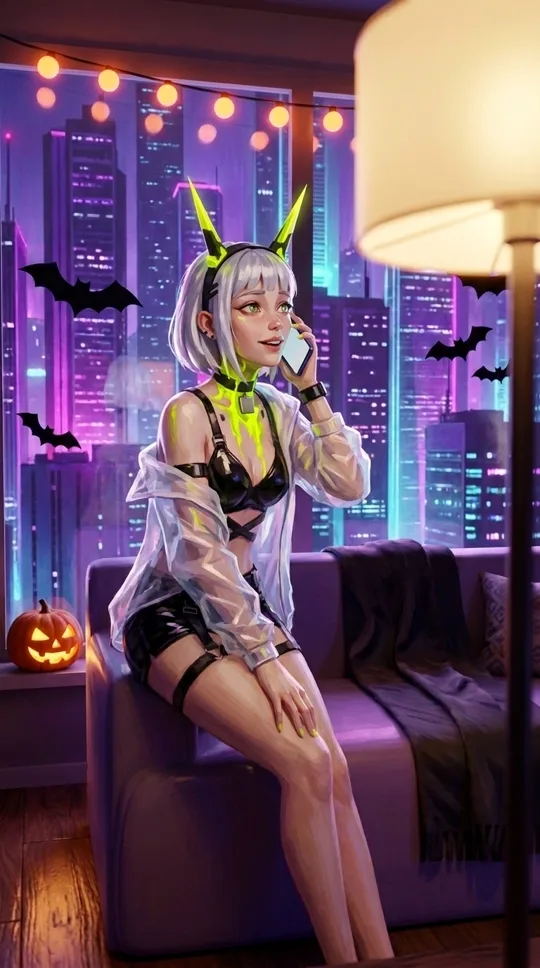
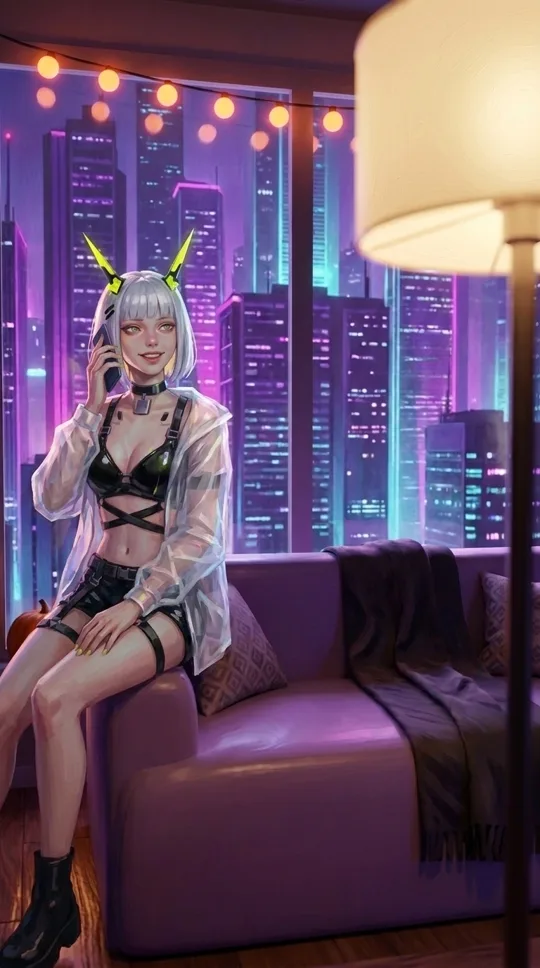
xsino: Halloween Party review - S02/S03/S10 rerolled to the master's horn length

diff --git a/xsino/halloween-party/index.html b/xsino/halloween-party/index.html
@@ -46,7 +46,7 @@
   <p class="muted">Remake of Higgsfield Soul's Halloween short for the XSINO flash event (31 Oct – 1 Nov) · 9:16 · 47.5 s · Spanish speech, English subs</p>
   <div class="status">
     <p><b>25 Oct · previz v1 approved.</b> The anime keyframes and set plates are below, made on Flow (Nano Banana Pro) from the approved blocking. Each shot shows the block keyframe next to its anime keyframe.</p>
-    <p><b>26 Oct:</b> Nyx's horns run too long in S2, S3, S10, S12 and S13; rerolls to the master's length (about 0.6x her head height) are built but paused, because Flow flagged "unusual activity" on the account.</p>
+    <p><b>26 Oct:</b> Nyx's horns were too long. S2, S3 and S10 are rerolled to the master's length (about 0.6x her head height). S11, S12 and S13 are queued: the batch stopped at S11 on a browser-connection timeout before anything was sent.</p>
     <p><b>Held:</b> S1, S8, S9, S14, S15, the five shots with Fortuna. Her old master was off-canon; the rebuilt options are below for your pick. <b>Music:</b> Suno is still waiting on the CAPTCHA in the :9228 window. No video has been generated.</p>
   </div>
 
@@ -72,15 +72,15 @@
 
   <h2>Keyframes, shot by shot (block → anime)</h2>
   <div class="shot"><div class="pics"><div><img src="kf/S01_f70.webp" alt="S1 block"><div class="cap">block</div></div><div><div class="ph">held: Fortuna</div><div class="cap">anime</div></div></div><div><span class="sid">S1 · 0–5 s · corridor</span><br>Fortuna walks up to Vega, who flicks a holo invite off her wrist.<div class="es">VEGA: "Esta noche: Halloween en XSINO." <span class="en">Tonight: Halloween at XSINO.</span><br>FORTUNA: "¡Qué chilero, voy!" <span class="en">So cool, I'm in!</span></div></div></div>
-  <div class="shot"><div class="pics"><div><img src="kf/S02_f150.webp" alt="S2 block"><div class="cap">block</div></div><div><img src="kfa/S02.webp" alt="S2 anime"><div class="cap">anime</div></div></div><div><span class="sid">S2 · 5–7.5 s · Nyx's apartment</span><br>Nyx on the sofa arm, phone to her ear.<div class="es">NYX: "¿Vienes esta noche?" <span class="en">You coming tonight?</span><br>KAIRO (phone): "No puedo. Cena familiar." <span class="en">Can't. Family dinner.</span></div><div class="note">She sits more central and larger than her block.</div><div class="note">Horns too long (0.74x head height vs the master's 0.6x); reroll queued.</div></div></div>
-  <div class="shot"><div class="pics"><div><img src="kf/S03_f215.webp" alt="S3 block"><div class="cap">block</div></div><div><img src="kfa/S03.webp" alt="S3 anime"><div class="cap">anime</div></div></div><div><span class="sid">S3 · 7.5–10 s · close</span><br>She lowers the phone.<div class="es">NYX: "Ah… está bien." <span class="en">Oh… that's fine.</span></div><div class="note">REJECTED by Leon: horns too long (0.70x). Reroll queued.</div></div></div>
+  <div class="shot"><div class="pics"><div><img src="kf/S02_f150.webp" alt="S2 block"><div class="cap">block</div></div><div><img src="kfa/S02.webp?v=2" alt="S2 anime"><div class="cap">anime</div></div></div><div><span class="sid">S2 · 5–7.5 s · Nyx's apartment</span><br>Nyx on the sofa arm, phone to her ear.<div class="es">NYX: "¿Vienes esta noche?" <span class="en">You coming tonight?</span><br>KAIRO (phone): "No puedo. Cena familiar." <span class="en">Can't. Family dinner.</span></div><div class="note">Rerolled 26 Oct: horns fixed (0.57x head height, master 0.6x). She is still larger than her block (about 70% of frame height vs 44%).</div></div></div>
+  <div class="shot"><div class="pics"><div><img src="kf/S03_f215.webp" alt="S3 block"><div class="cap">block</div></div><div><img src="kfa/S03.webp?v=2" alt="S3 anime"><div class="cap">anime</div></div></div><div><span class="sid">S3 · 7.5–10 s · close</span><br>She lowers the phone.<div class="es">NYX: "Ah… está bien." <span class="en">Oh… that's fine.</span></div><div class="note">Rerolled 26 Oct after your rejection: horns now 0.58x head height, blade-shaped from the headband clips. Her look is tight-lipped disappointment rather than a sad smile.</div></div></div>
   <div class="shot"><div class="pics"><div><img src="kf/S04_f290.webp" alt="S4 block"><div class="cap">block</div></div><div><img src="kfa/S04.webp" alt="S4 anime"><div class="cap">anime</div></div></div><div><span class="sid">S4 · 10–12.5 s · XSINO tower</span><br>Crane up the tower as the crowd streams in past giant neon pumpkins.</div></div>
   <div class="shot"><div class="pics"><div><img src="kf/S05_f355.webp" alt="S5 block"><div class="cap">block</div></div><div><img src="kfa/S05.webp" alt="S5 anime"><div class="cap">anime</div></div></div><div><span class="sid">S5 · 12.5–15 s · entrance</span><br>Push in; the doors slide open; we pass through on the cut.</div></div>
   <div class="shot"><div class="pics"><div><img src="kf/S06_f415.webp" alt="S6 block"><div class="cap">block</div></div><div><img src="kfa/S06.webp" alt="S6 anime"><div class="cap">anime</div></div></div><div><span class="sid">S6 · 15–17.5 s · party hall</span><br>The drop: the camera rises over the dancing crowd, stage and runway at the far end.</div></div>
   <div class="shot"><div class="pics"><div><img src="kf/S07_f470.webp" alt="S7 block"><div class="cap">block</div></div><div><img src="kfa/S07.webp" alt="S7 anime"><div class="cap">anime</div></div></div><div><span class="sid">S7 · 17.5–20 s · stage</span><br>Vega on stage with the mic.<div class="es">VEGA: "¡Concurso de disfraces… empieza ya!" <span class="en">Costume contest… starts now!</span></div></div></div>
   <div class="shot"><div class="pics"><div><img src="kf/S08_f585.webp" alt="S8 block"><div class="cap">block</div></div><div><div class="ph">held: Fortuna</div><div class="cap">anime</div></div></div><div><span class="sid">S8 · 20–25 s · runway</span><br>Fortuna struts down the runway toward us, stops, poses.<div class="es">FORTUNA: "Tomen nota." <span class="en">Take notes.</span></div></div></div>
   <div class="shot"><div class="pics"><div><img src="kf/S09_f640.webp" alt="S9 block"><div class="cap">block</div></div><div><div class="ph">held: Fortuna</div><div class="cap">anime</div></div></div><div><span class="sid">S9 · 25–27.5 s · the break</span><br>Music cuts. Vega points at the doors; the whole crowd turns.<div class="es">VEGA: "¡Alto! Alguien llegó tarde." <span class="en">Stop! Somebody's late.</span></div></div></div>
-  <div class="shot"><div class="pics"><div><img src="kf/S10_f700.webp" alt="S10 block"><div class="cap">block</div></div><div><img src="kfa/S10.webp" alt="S10 anime"><div class="cap">anime</div></div></div><div><span class="sid">S10 · 27.5–30 s · doorway</span><br>The doors open: Nyx backlit, horns glowing.<div class="es">NYX: "Hola…" <span class="en">Hi…</span></div><div class="note">Her smile reads happy rather than nervous.</div><div class="note">Horns too long (0.72x); reroll queued.</div></div></div>
+  <div class="shot"><div class="pics"><div><img src="kf/S10_f700.webp" alt="S10 block"><div class="cap">block</div></div><div><img src="kfa/S10.webp?v=2" alt="S10 anime"><div class="cap">anime</div></div></div><div><span class="sid">S10 · 27.5–30 s · doorway</span><br>The doors open: Nyx backlit, horns glowing.<div class="es">NYX: "Hola…" <span class="en">Hi…</span></div><div class="note">Rerolled 26 Oct: horns fixed (about 0.5x; her head is small in this frame). Her smile still reads happy rather than nervous.</div></div></div>
   <div class="shot"><div class="pics"><div><img src="kf/S11_f770.webp" alt="S11 block"><div class="cap">block</div></div><div><img src="kfa/S11.webp" alt="S11 anime"><div class="cap">anime</div></div></div><div><span class="sid">S11 · 30–32.5 s</span><br>Nyx walks in; the crowd parts for her.<div class="note">Weak: she reads as standing, not walking.</div></div></div>
   <div class="shot"><div class="pics"><div><img src="kf/S12_f830.webp" alt="S12 block"><div class="cap">block</div></div><div><img src="kfa/S12.webp" alt="S12 anime"><div class="cap">anime</div></div></div><div><span class="sid">S12 · 32.5–35 s</span><br>Kairo steps out of the crowd from the left in a vampire cape; she turns.<div class="es">NYX: "¿Kairo? Dijiste que no venías." <span class="en">Kairo? You said you weren't coming.</span></div><div class="note">Weak: the pair is much larger than the blocking, and Nyx faces the camera instead of turning to him.</div><div class="note">Horns: the right one is too upright; reroll queued with the size and turn fix.</div></div></div>
   <div class="shot"><div class="pics"><div><img src="kf/S13_f900.webp" alt="S13 block"><div class="cap">block</div></div><div><img src="kfa/S13.webp" alt="S13 anime"><div class="cap">anime</div></div></div><div><span class="sid">S13 · 35–40 s · the payoff</span><br>Two-shot. He smiles; she melts.<div class="es">KAIRO: "¿Cómo me lo iba a perder? Estás tú aquí." <span class="en">How could I miss it? You're here.</span></div><div class="note">Near horn far too long (0.94x); reroll queued.</div></div></div>
